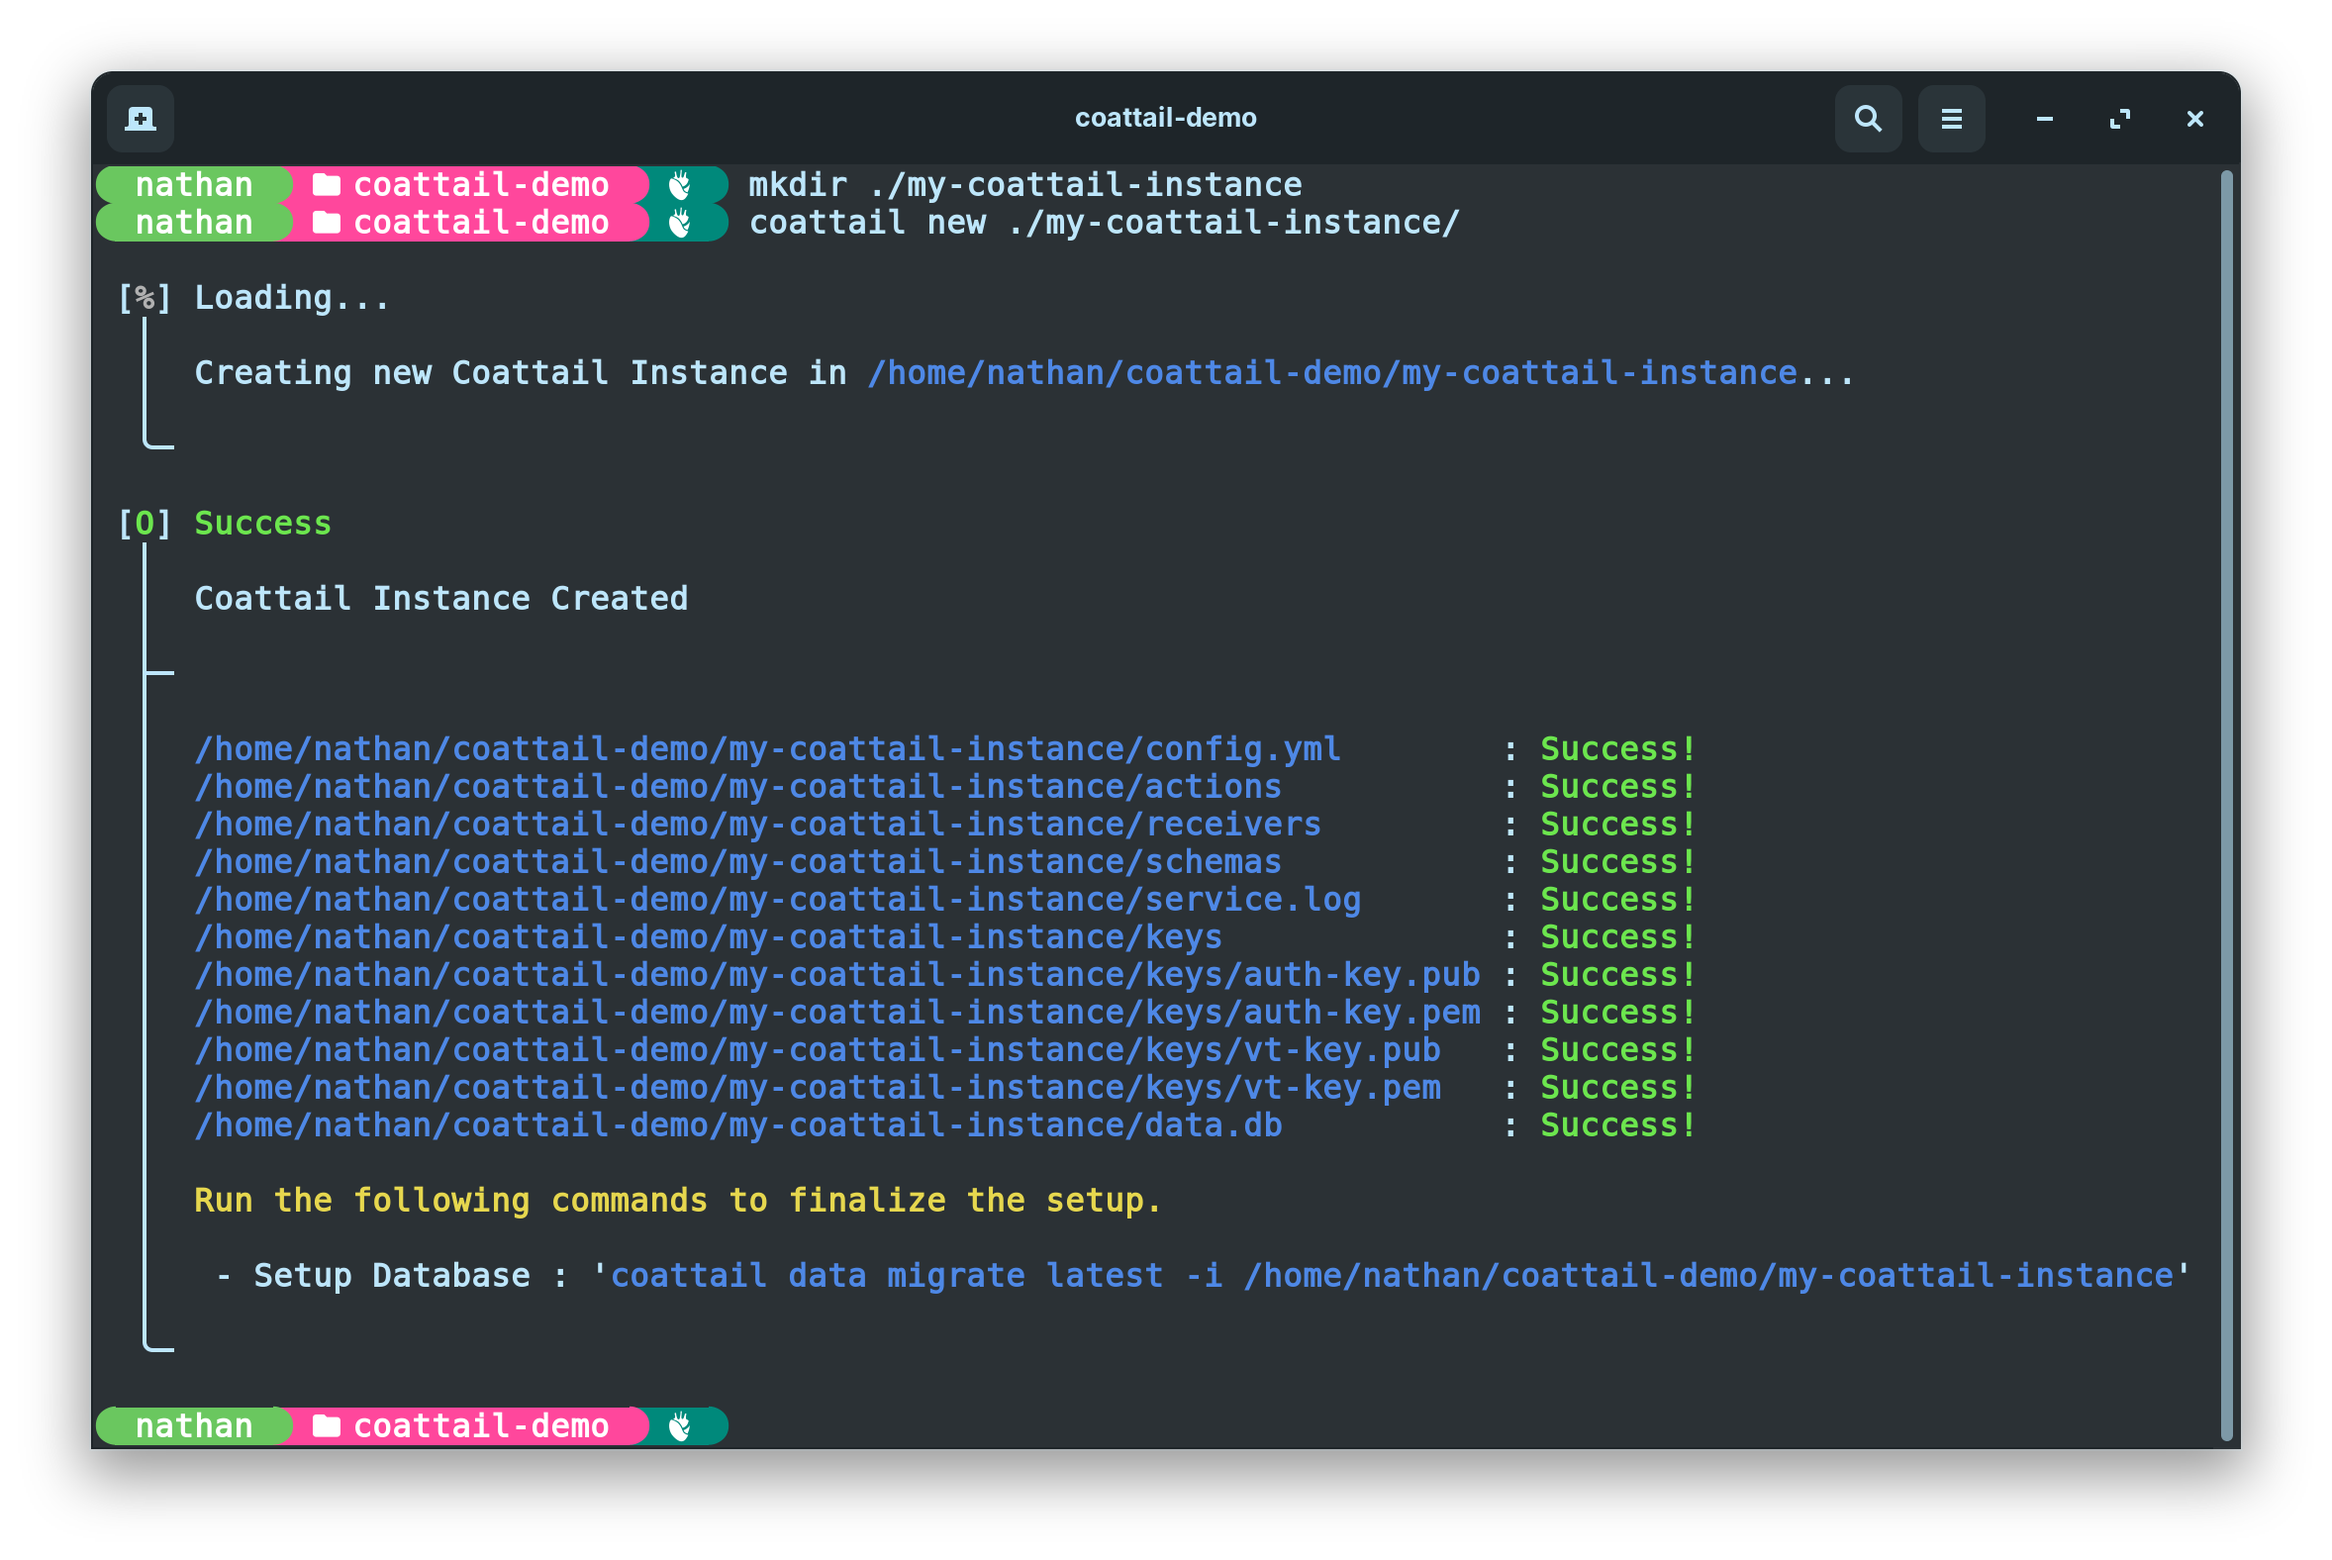
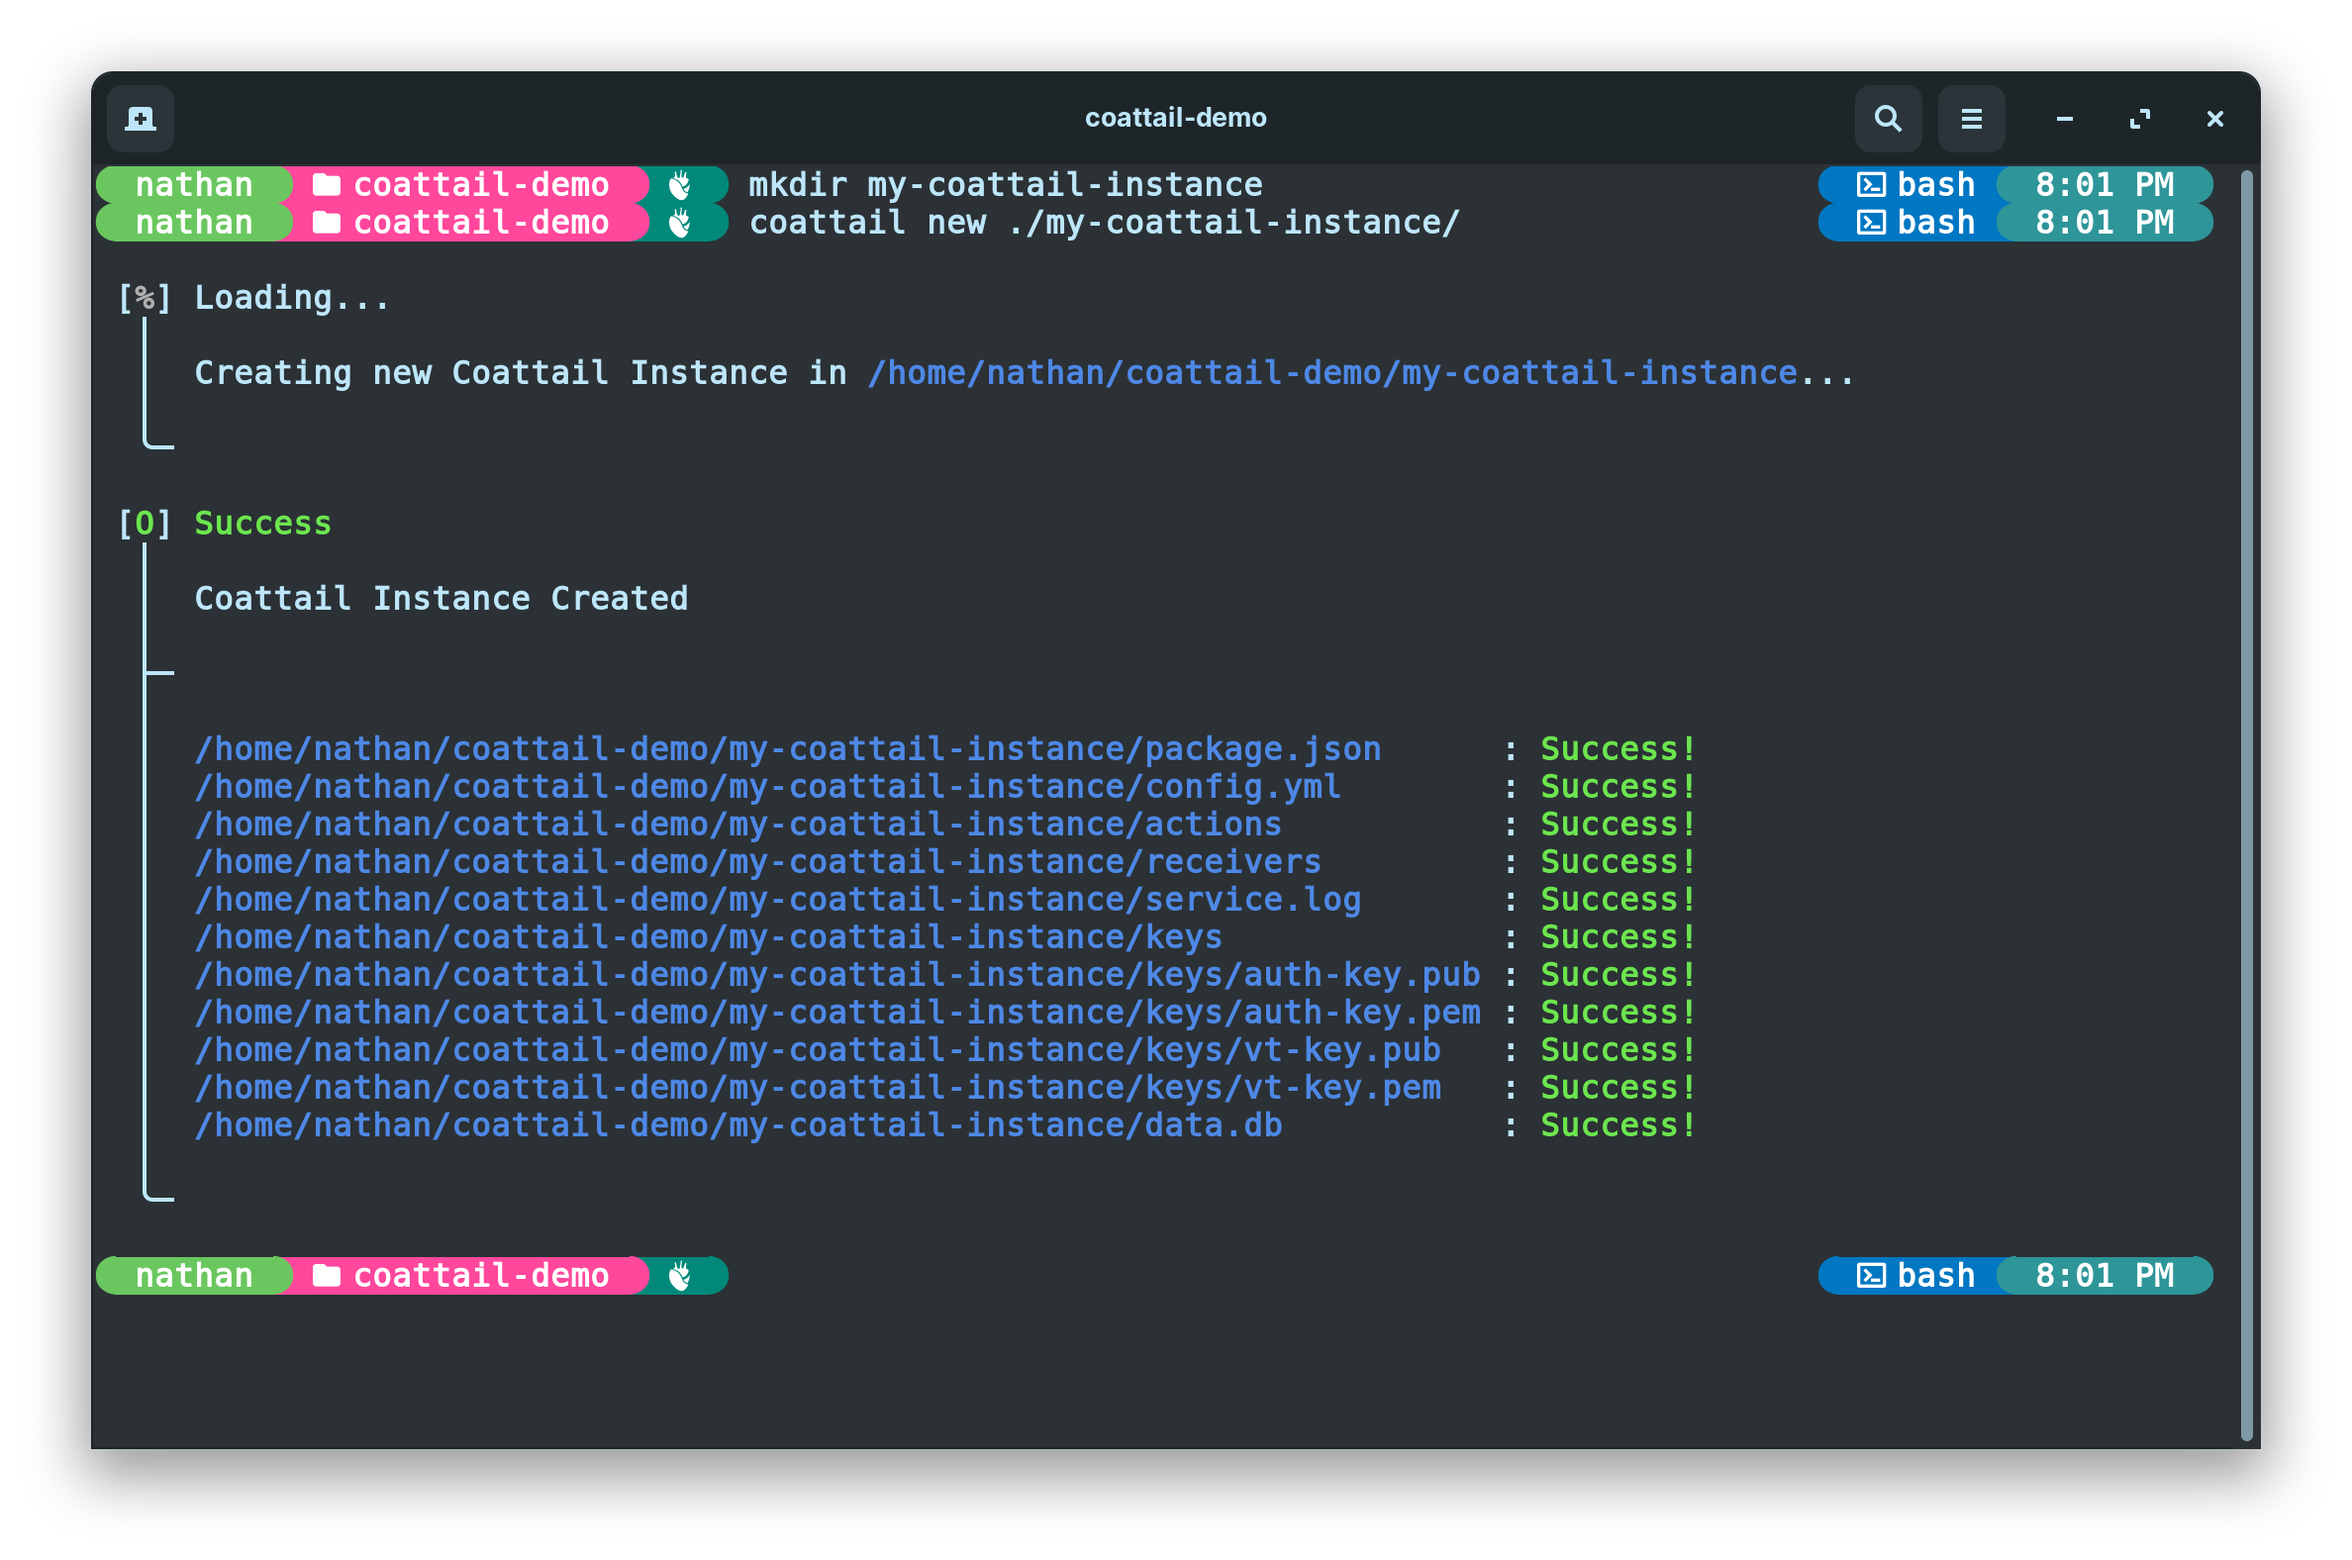
updates

diff --git a/lib/cli/new.js b/lib/cli/new.js
@@ -214,9 +214,5 @@ module.exports = async cli => {
         return;
     }
 
-    lines.push('');
-    lines.push(chalk.hex('#e6d74e')(`Run the following commands to finalize the setup.`));
-    lines.push('');
-    lines.push(` - Setup Database : '${chalk.hex('#4e88e6')(`coattail data migrate latest -i ${directory}`)}'`);
     cli.success(`Coattail Instance Created`, lines);
 };
